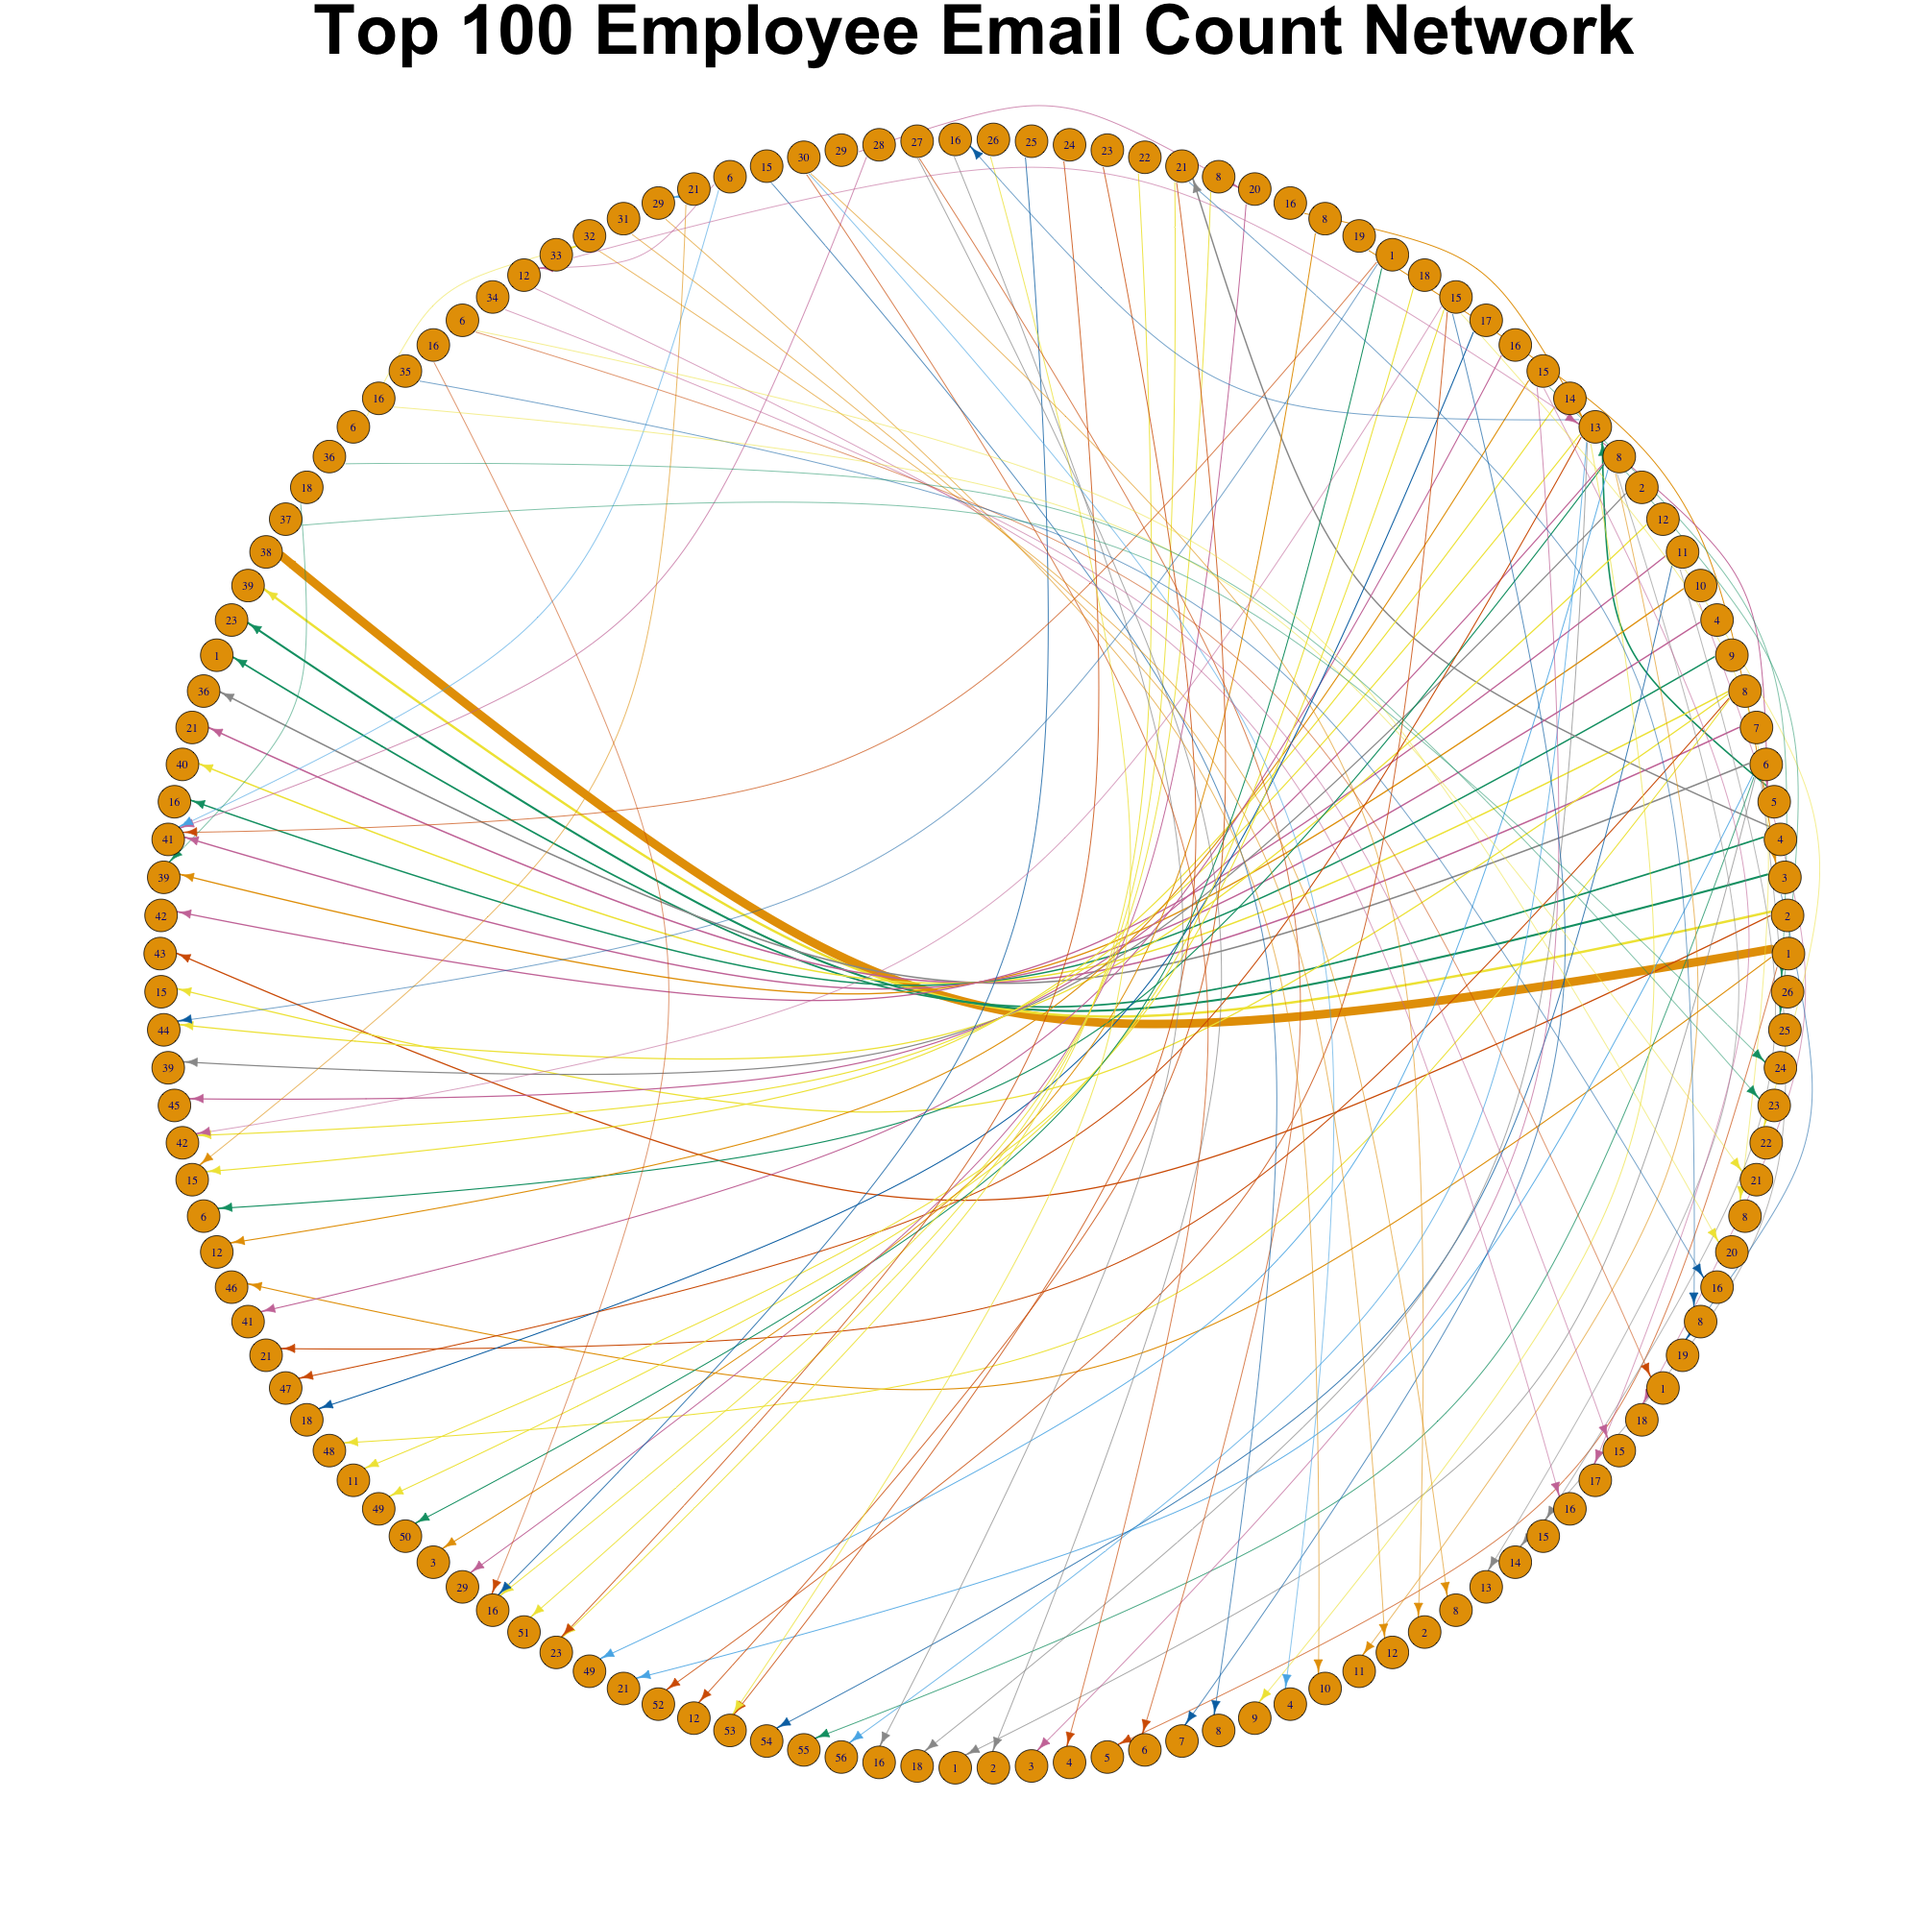
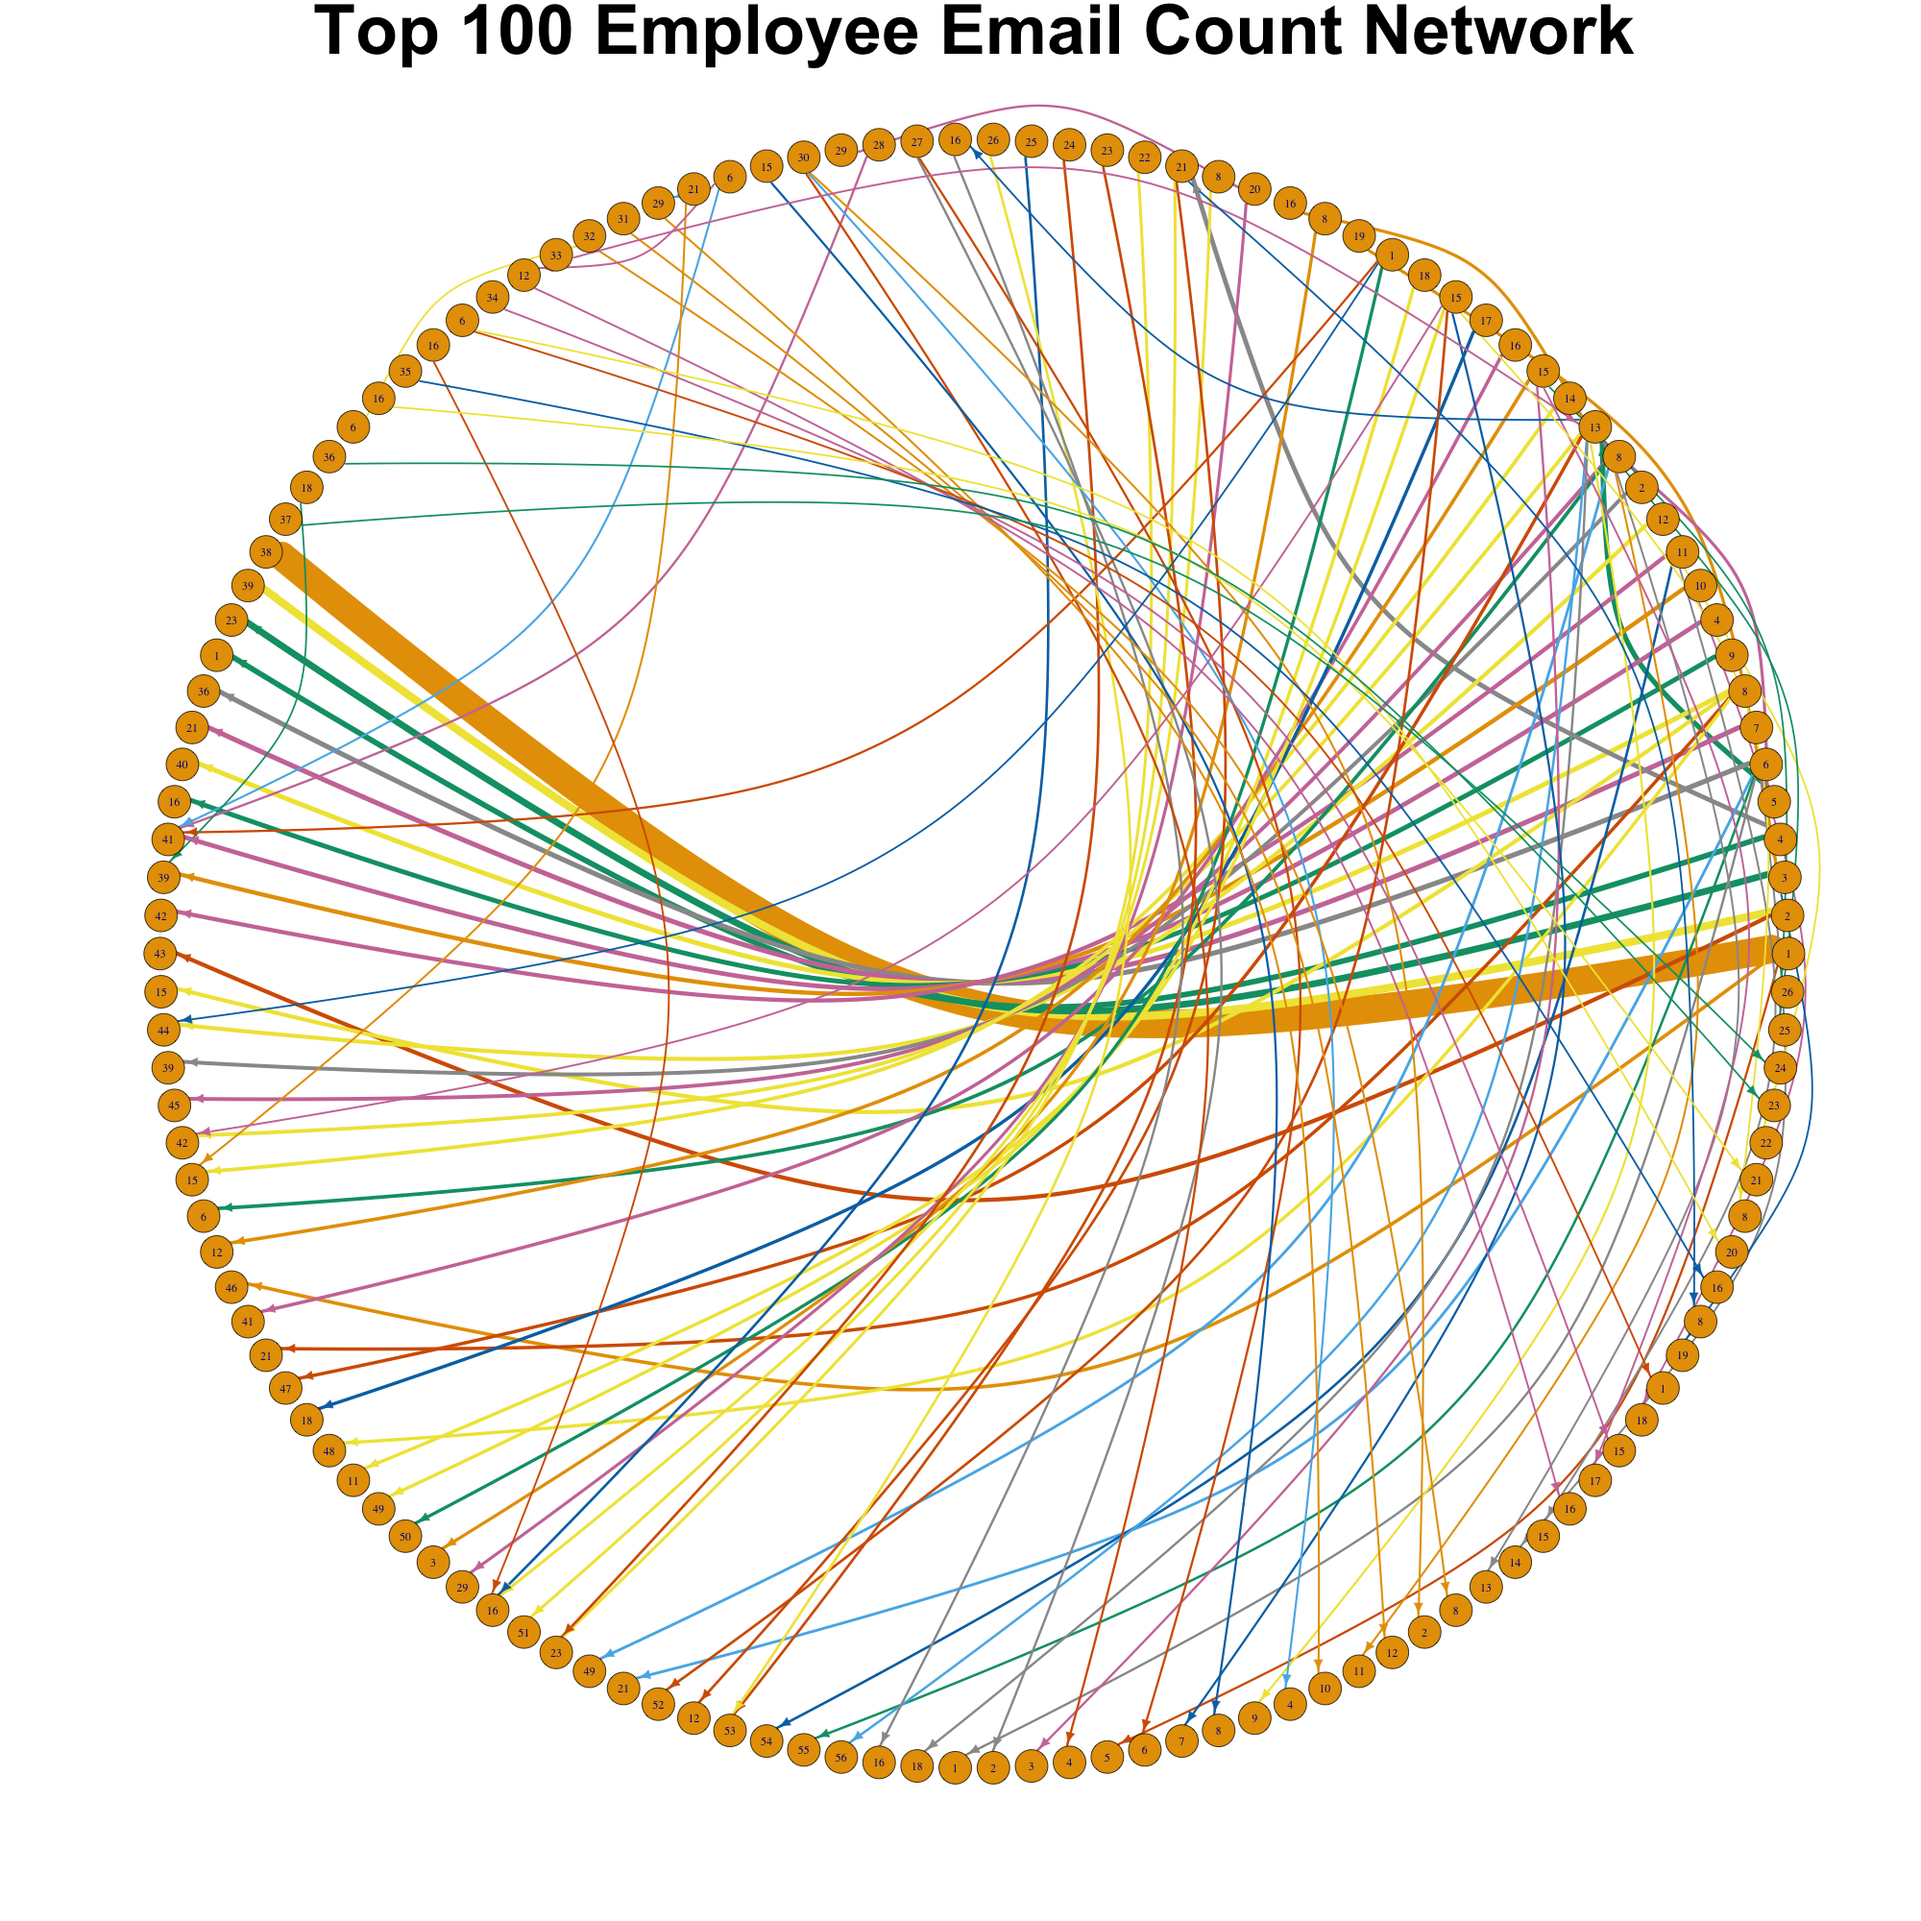
Fixed edge sizes

diff --git a/README.md b/README.md
@@ -41,4 +41,4 @@ This project will use natural language processing to analyze emails between Enro
 ### Preliminary Plots
 ![](README_graphics/Top.30.Send.Receive.Plot.png)
 
-![](README_graphics/top.100.network.png
+![](README_graphics/top.100.network.png)
